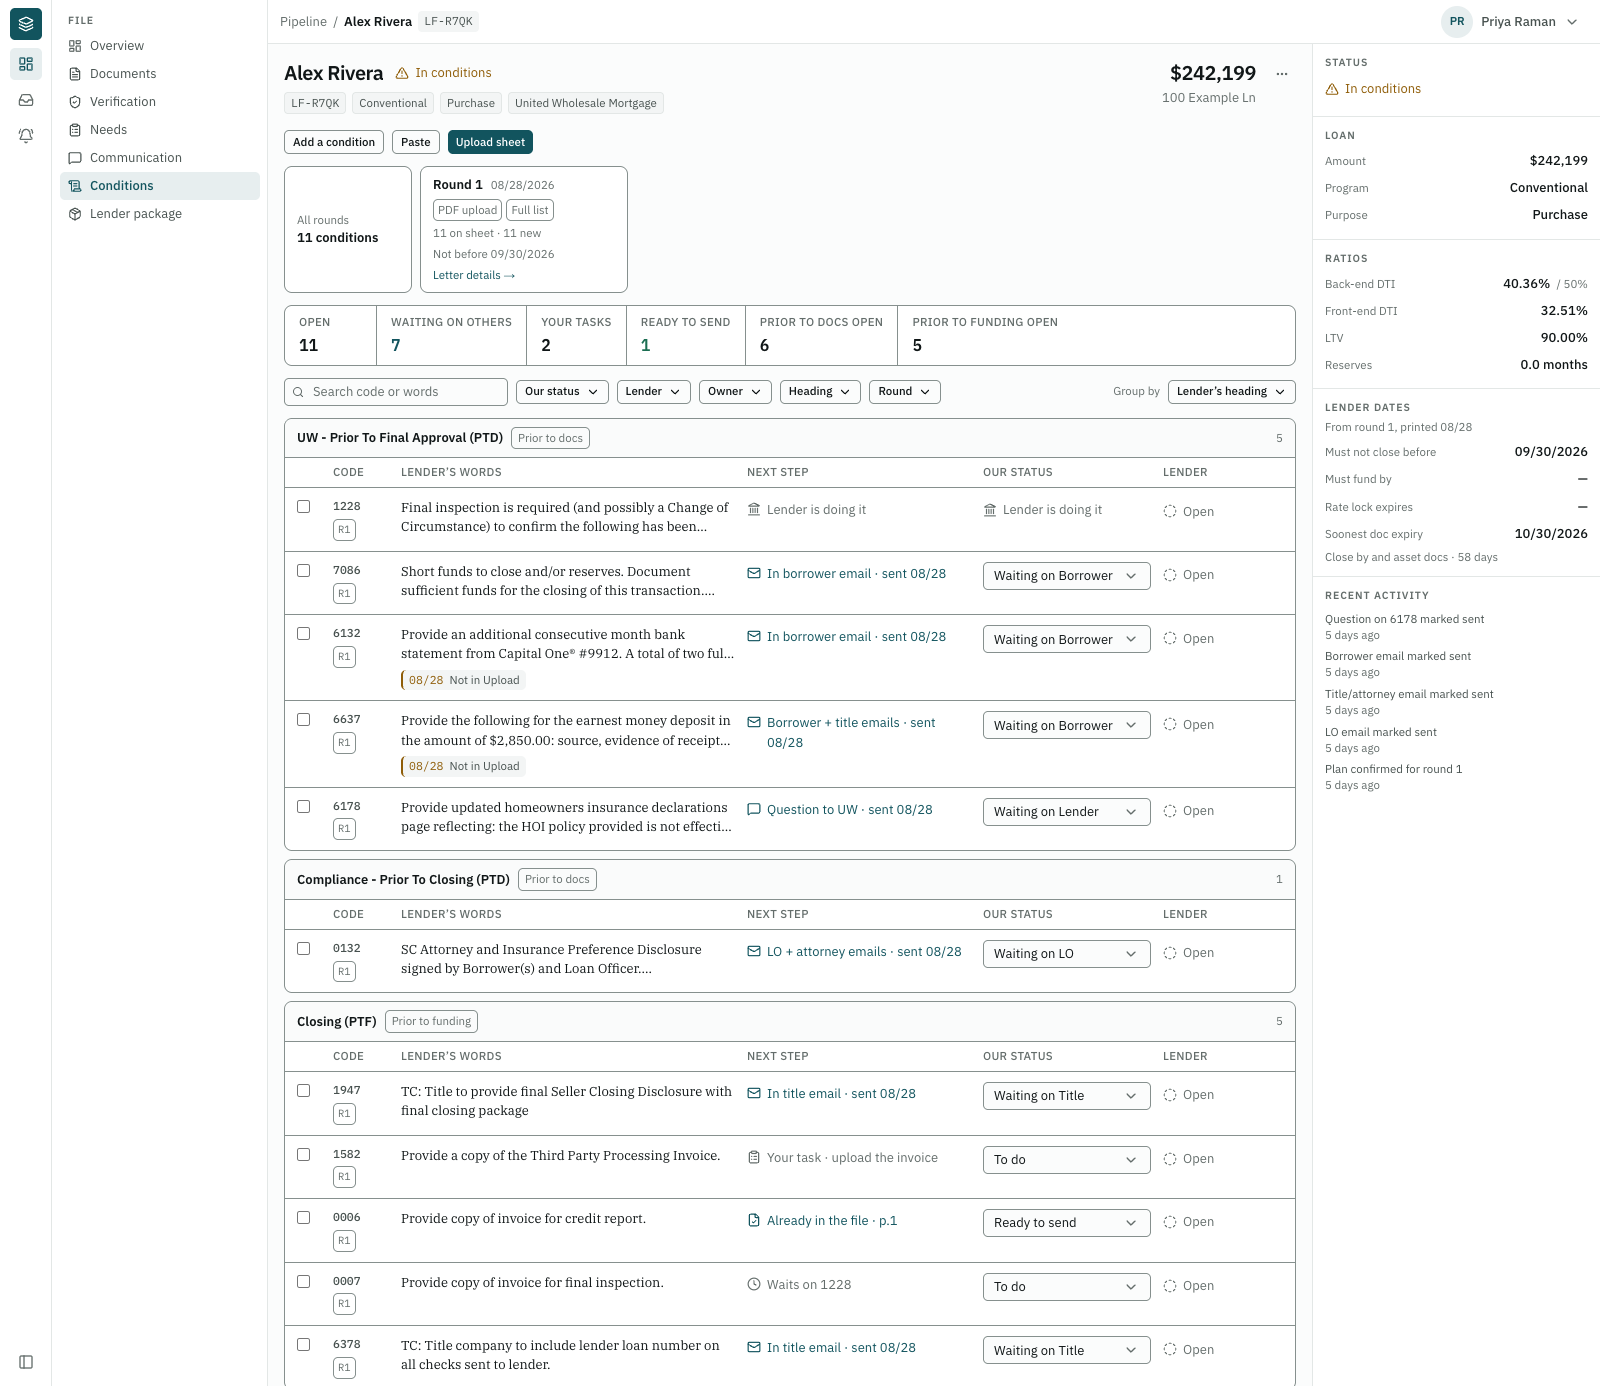
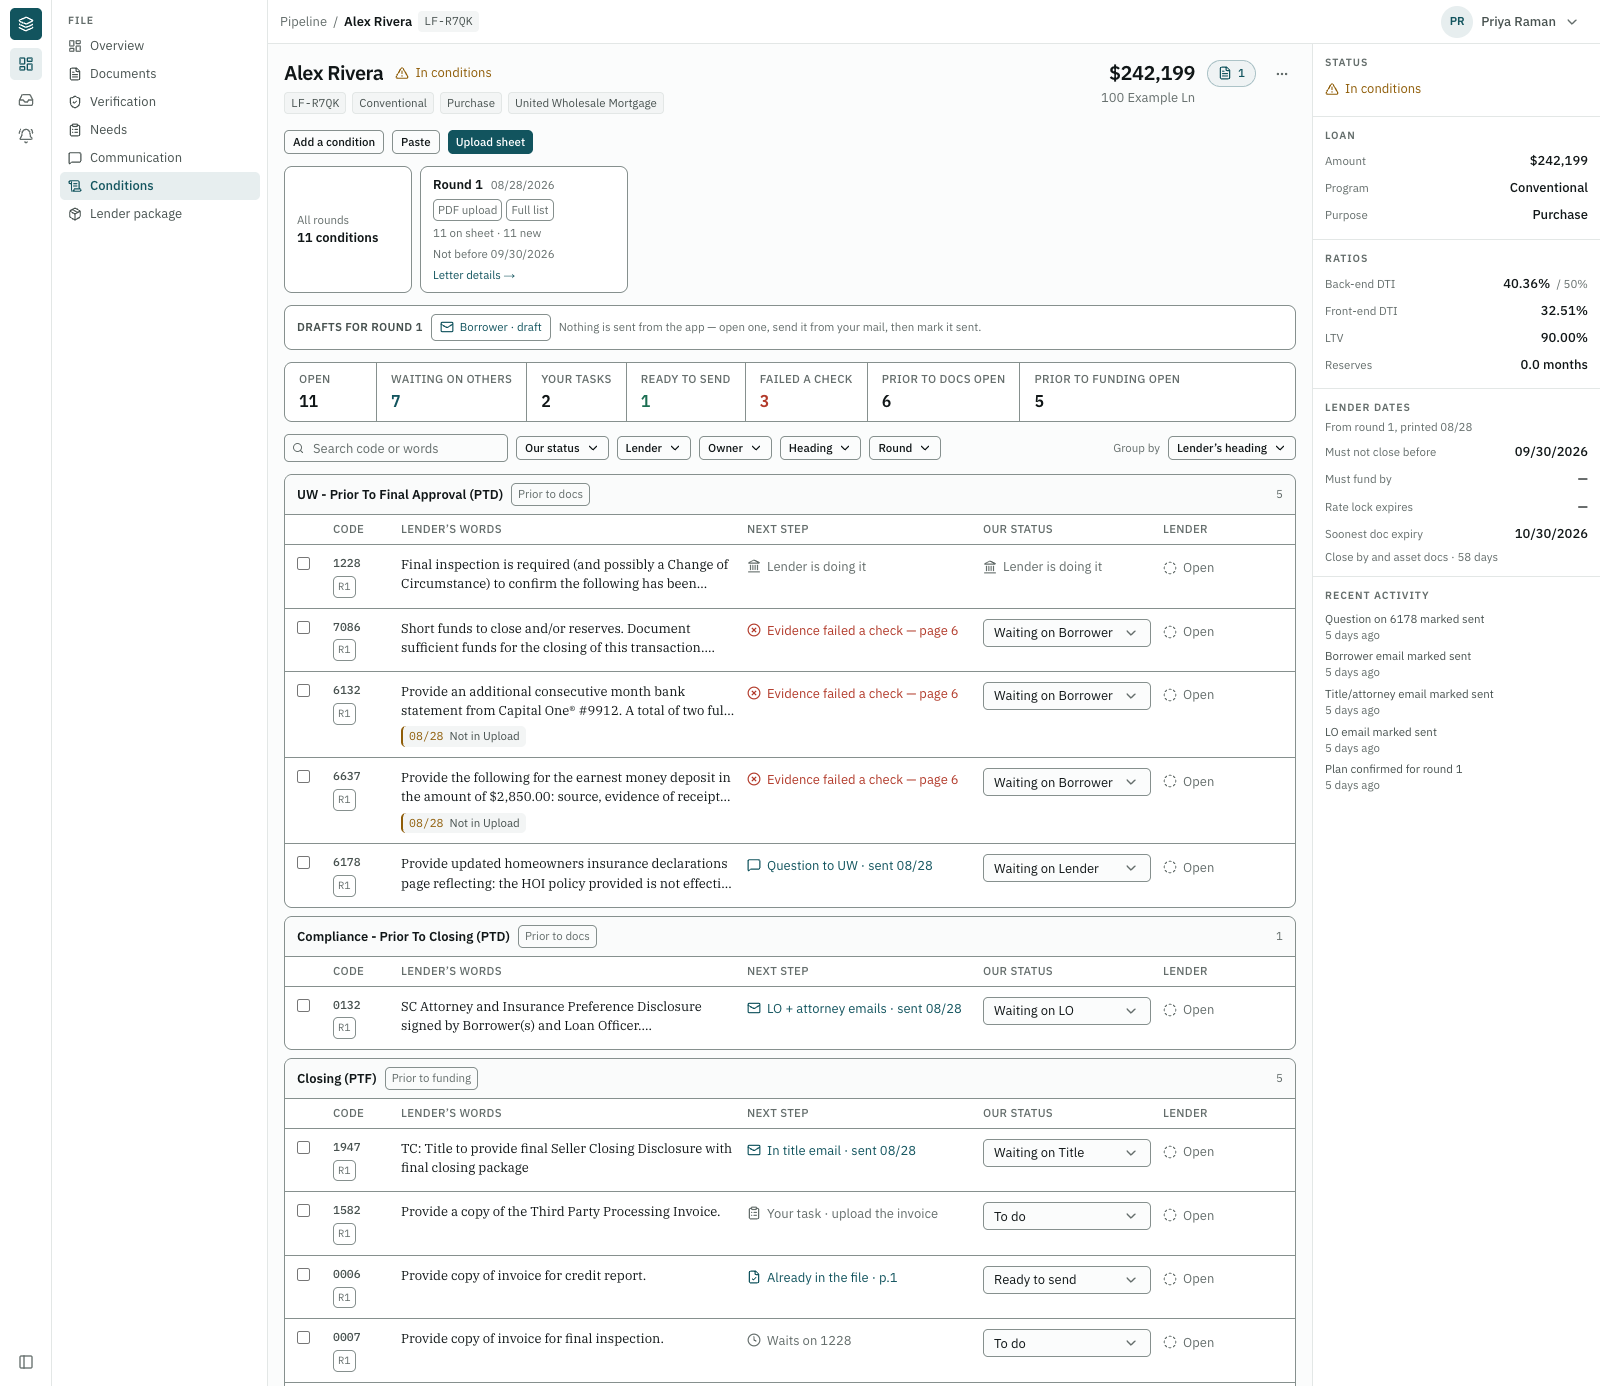
LP-923 review: an open deposit keeps its item open too; LP-934's D1 corrected to 3
- test_evidence_item_open_finding.py: the per-item guard (every check passed, deposit open →
  the item is NOT done) was unpinned; now tested, with a positive control once answered.
- LP-934's D1 row said 2; the 5-page statement answers three items (6132, 7086, 6637's
  clearance), measured. Corrected in place with the reason.
- Why nothing is auto-drafted, written into the ticket; S3-07, S3-08, S3-12 re-shot.

Written by the review session (mortgageboss-ai-cf); committed by the builder at the product owner's instruction.

diff --git a/backend/tests/conditions/test_evidence_item_open_finding.py b/backend/tests/conditions/test_evidence_item_open_finding.py
@@ -1,0 +1,87 @@
+"""An item is not done while its own finding is open (LP-923 review).
+
+WHY THIS EXISTS. `_open_finding` guards two different decisions in `condition_evidence`: whether the
+CONDITION may move to Ready to send, and whether the ITEM may be marked done. The first is pinned by
+`test_accepting_a_statement_does_not_answer_its_deposit` — removing it fails that test. The second was
+pinned by nothing: deleting it from the per-item rule left the whole `tests/conditions/` suite green,
+so an edit could have marked items done over an open finding and no test would have said so.
+
+WHAT THAT WOULD LOOK LIKE. S3-08's statement passes every check — right account, right period, right
+borrower, inside the lender's dates, all 12 pages, enough for closing — and still carries the
+$4,000.00 deposit that needs sourcing. Without this guard the item reads "done" on the sheet and drops
+out of her open work, while the condition itself stays held by the other guard. The screen would say
+the asked-for thing had arrived and been dealt with, which is the one thing it must not say while the
+borrower still owes an explanation.
+"""
+
+from __future__ import annotations
+
+import pytest
+from app.models.condition_evidence import ConditionEvidence
+from app.models.condition_item import ConditionItem
+from app.models.condition_vocabulary import ConditionItemStatus
+from app.services import condition_reading
+from app.services.condition_evidence import answer_finding, check_document
+from sqlalchemy.ext.asyncio import AsyncSession
+from tests.conditions.reading_fixture import fake_complete
+from tests.conditions.statement_fixture import add_statement, july_and_august
+from tests.conditions.test_condition_evidence import TODAY, _asked, _evidence, _results
+
+pytestmark = pytest.mark.asyncio
+
+
+@pytest.fixture(autouse=True)
+def _mocked_model(monkeypatch: pytest.MonkeyPatch) -> None:
+    """The same stub the sibling module uses. Without it `_asked` reaches the real API: the reading
+    runs inside it, and the mock lives in that module rather than in `conftest`."""
+    monkeypatch.setattr(condition_reading, "complete", fake_complete())
+
+
+async def _statements_evidence(
+    db: AsyncSession, condition: object
+) -> tuple[ConditionEvidence, ConditionItem]:
+    """The evidence row for 7086's `statements` item, with its item."""
+    rows = await _evidence(db, condition)  # type: ignore[arg-type]
+    for row in rows:
+        item = await db.get(ConditionItem, row.item_id)
+        if item is not None and item.key == "statements":
+            return row, item
+    raise AssertionError("no evidence for the statements item")
+
+
+async def test_every_check_passed_and_the_item_is_still_not_done(db_session: AsyncSession) -> None:
+    """S3-08 exactly: nothing failed, and the deposit is still unanswered."""
+    _loan_file, conditions, _actor = await _asked(db_session)
+    both = await add_statement(db_session, _loan_file, july_and_august())
+    await check_document(db_session, document_id=both.id, today=TODAY)
+
+    row, item = await _statements_evidence(db_session, conditions["7086"])
+
+    # The premise, asserted rather than assumed: this is the all-passed case, not a failed check.
+    assert {result for result, _reason in _results(row).values()} - {"failed"} == {"passed"}
+    assert [result for result, _ in _results(row).values()].count("failed") <= 1, _results(row)
+    assert row.findings, "the $4,000.00 deposit should be an open finding"
+    assert row.findings[0].get("status") != "explained"
+
+    assert item.status is not ConditionItemStatus.DONE
+
+
+async def test_answering_the_finding_lets_the_item_be_done(db_session: AsyncSession) -> None:
+    """The positive control. Without it, a guard that never marked anything done would pass above."""
+    _loan_file, conditions, actor = await _asked(db_session)
+    both = await add_statement(db_session, _loan_file, july_and_august())
+    await check_document(db_session, document_id=both.id, today=TODAY)
+    row, _item = await _statements_evidence(db_session, conditions["7086"])
+
+    await answer_finding(
+        db_session,
+        condition=conditions["7086"],
+        evidence_id=row.id,
+        index=0,
+        answer="explained",
+        reason="payroll from her employer, shown on the same statement",
+        actor_user_id=actor,
+    )
+
+    _row, item = await _statements_evidence(db_session, conditions["7086"])
+    assert item.status is ConditionItemStatus.DONE

diff --git a/docs/tickets/LP-923.md b/docs/tickets/LP-923.md
@@ -187,6 +187,91 @@ draft holding the deposit-explanation request, and the rail's relative times are
 | D1 (amended) | S3-12 | "Failed a check 1" | LP-934 said 2. It is **3**: the 5-page statement answers 6132, 7086 and 6637's clearance, and §4a change 2 checks it once for each |
 | D9 | S3-08 | "Right account and period … all pages" as one check row | The library names each check separately and each carries its own reason; S3-07 draws them separately too. Grouping three passes into one row is the screen's shorthand, not a different check |
 
+## Review (of `d2a6f43a`)
+
+**Two findings, both fixed. Your reading of M1 is right, and it corrects something I passed.**
+
+### The findings
+
+**F1 — D1 said 2 in two places and 3 in one.** You amended it to 3 in this ticket; `LP-934.md`'s own
+row still read "→ 2", and the progress file's register sends the reader to LP-934 for D1. So the owner
+following the register would have found the stale number. **Verified on the seeded state before
+changing anything:** the 5-page August statement is linked to three items — 6132's statement, 7086's
+assets and **6637's clearance** — and all three carry the failed `all_pages` check. `Failed a check`
+reads **3** on my own S3-12 shot. LP-934's row now carries the correction and says why it was wrong:
+neither the build nor its review enumerated the items the document answers. That review was mine, so
+this is my error as much as anyone's — M1's rule is "checked once for each item it answers", and the
+right response was to list the items, which neither of us did.
+
+**F2 — `_open_finding` guards two decisions, and only one was pinned.** You wrote that the guard
+"looked redundant under mutation, but it is not", and that is right for the Ready move: removing it
+fails `test_accepting_a_statement_does_not_answer_its_deposit`. The SAME guard on the per-item done
+rule was pinned by nothing — I removed it and the whole `tests/conditions/` suite stayed green at
+398 passed. Without it, S3-08's statement (every check passed, the $4,000.00 deposit still open) marks
+its item **done**: the sheet says the asked-for thing arrived and was dealt with while the borrower
+still owes an explanation, and only the other guard keeps the condition itself back. **Fixed:**
+`tests/conditions/test_evidence_item_open_finding.py`, with a positive control that answering the
+finding does let the item be done. Mutation-checked: removing the guard fails the first test and not
+the control.
+
+### The judgment you asked for, on M1
+
+**Three is right.** M1's rule is that one document is "checked once for each item it answers", and the
+August statement answers three: 6132's bank statement, 7086's verified assets, and 6637's clearance
+(the July statement is 6637's source, which is why it is three and not four). Measured, not reasoned:
+`condition_evidence` holds three rows for that document, each with `all_pages` failed, and S3-12 shows
+`Failed a check 3` with all three rows reading "Evidence failed a check — page 6".
+
+### "Nothing is auto-drafted" — also right, and worth the argument
+
+The plan says "a re-ask is drafted" and "an explanation request drafted for the borrower", and whether
+a draft exists is behaviour, where the plan wins — so this deserved more than a decision line. Three
+things settle it your way. S3-07's primary is *her* button ("Add 'please send page 6' to the borrower
+email"), and S3-08's is "Ask the borrower to explain it". §4a change 10 enumerates what happens
+automatically and drafting is not among them. And the whole stage is drafts-not-sends, which is what
+"is drafted" is contrasting with. No deviation needed.
+
+### The rest, checked
+
+- **No model runs a check.** Nothing in `condition_evidence.py` imports or calls the AI; the checks are
+  code, as its own docstring claims and as S3-08 prints to the processor ("All figures above are
+  computed by code").
+- **The large deposit as a finding, not a failed check.** Both screens demand exactly this split: S3-08
+  lists "No unexplained large deposit" among the Checks with a red glyph, while S3-12's `Failed a
+  check` count excludes it. My S3-08 shot shows `Failed a check 0` with the red row present, which is
+  the reconciliation working.
+- **The out-of-scope change is the right shape.** `upload_links._enqueue_processing` mirrors
+  `documents.py`'s existing `_enqueue_reprocess` exactly — fire-and-forget after the commit, swallowing
+  a broker hiccup because the document is stored and can be reprocessed. That is the established
+  pattern for this case, not a breach of the "never a bare `except Exception`" rule, which applies
+  where a failure would strand work. Without it LP-923 cannot work end to end, so it belongs here.
+
+### Screens
+
+**S3-08 — matches every line:** the 12-page document card, all seven checks with "Enough for closing"
+(verified $41,914.42 against $38,210.40) and the failed deposit row, the attention box with the
+B3-4.2-02 chip and all four figures ($4,000.00 · $2,870.66 · $37,914.42 · $38,210.40), the plain-words
+reason, both buttons, and "7086 stays Waiting on Borrower … All figures above are computed by code."
+
+**S3-12 — the amended D1 confirmed on screen:** `Failed a check 3`, with 7086, 6132 and 6637 each
+reading "Evidence failed a check — page 6"; the summary otherwise 11 · 7 · 2 · 1 · 6 · 5; LP-922's
+sends now real ("· sent 08/28"), and Recent activity showing four marked sends, which is D4.
+
+### Tests
+
+| | Ticket | Measured here |
+|---|---|---|
+| Backend, full suite | 8657 passed, 1 failed | **8659 passed, 1 failed** — 8657 plus this review's 2 tests; the failure is the named pre-existing one |
+| ruff, format, mypy | clean | clean |
+| Frontend | vitest 2112/2113, tsc, biome, build clean | **2113 / 2113** here — the stranded-round test passed in this run, as it does in some whole-suite runs; tsc and biome clean |
+
+### One hazard for the next test file
+
+`_asked` runs the reading, and the model stub is an autouse fixture **local to
+`test_condition_evidence.py`**. My new file imported `_asked` and reached the real API on its first
+run (a 401 in the log). Nothing is broken today, but `_asked` is now imported across modules, and the
+stub is worth lifting somewhere shared before a file forgets it with a key present.
+
 ## Verification
 
 - **Full backend suite on the finished tree:** 8657 passed, 1 failed (the named sonnet test), 8 skipped,

diff --git a/docs/phases/phase4.5-progress.md b/docs/phases/phase4.5-progress.md
@@ -277,7 +277,7 @@ the "Today" table's clock. Actual and review shots are committed under
 | LP-920 The action plan | REVIEWED | `106de9af` | the commit titled `LP-920 review:` | S3-01, S3-02, S3-03 re-shot by the reviewer; S3-02 matches every line, S3-01 differs on one string (D6) | review found 1, fixed: a Must-match string recorded as a match, now D6 |
 | LP-921 Next-step options | REVIEWED | `0111c5f0` | the commit titled `LP-921 review:` | S3-12 shot and walked by the reviewer: every line this ticket builds matches (sends LP-922, checks LP-923); S3-01 chips match | review found 2, fixed: the suite count was pre-fix (8592), the deviation list named only D1-D4 |
 | LP-922 Asking people (drafts only) | REVIEWED | `29c74a7d` + follow-up `35a558f8` | the commits titled `LP-922 review:` and `LP-922 follow-up review:` | S3-04, S3-05, S3-06 shot and walked by the reviewer; D7 and D8 recorded | 2 reviews: a pre-existing flaky test recorded; the polish fact-check could not see a swapped pair, now caught |
-| LP-923 Evidence arrives and is checked | AWAITING_REVIEW | the commit titled `LP-923:` | | S3-07 matches every line; S3-08 all but D9 (grouped row); S3-12 now built: D1 amended (3), D2 | the deposit is a finding, never a failed check; upload-link documents now processed |
+| LP-923 Evidence arrives and is checked | REVIEWED | `d2a6f43a` | the commit titled `LP-923 review:` | S3-07, S3-08, S3-12 shot and walked by the reviewer; S3-08 matches every line, S3-12 confirms Failed a check 3 | review found 2, fixed: LP-934's D1 still said 2; the per-item open-finding guard had no test |
 | LP-924 The figures check | PENDING | | | S3-09 | |
 | LP-925 Package, submit, lender settings | PENDING | | | S3-10, S3-11 | then the Stage 3B acceptance test |
 | LP-935 Stage 3 close | PENDING | | | every screen | |

diff --git a/docs/tickets/LP-934.md b/docs/tickets/LP-934.md
@@ -137,7 +137,7 @@ No mismatch breaks a §4 principle in either direction, so none is a STOP AND AS
 
 | # | Screen | Must-match line made untrue | Why (plan) |
 |---|---|---|---|
-| D1 | S3-12 | "Failed a check 1 (red)" | M1: the 5-page August statement also answers 7086, so 7086 fails "All pages" too → 2 |
+| D1 | S3-12 | "Failed a check 1 (red)" | M1: the 5-page August statement also answers 7086, so 7086 fails "All pages" too. **Corrected to 3 by LP-923** (see [LP-923](LP-923.md) "D1 (amended)"): the same statement also answers 6637's clearance item, and M1's own rule checks a document once for EACH item it answers, so 6132, 7086 and 6637 all fail. This row said 2 because neither the build nor its review enumerated the items the document answers — the number is now measured on the seeded state. |
 | D2 | S3-12 | 7086's next step "Deposit explanation asked · 09/02" as its only state | M1: 7086 also carries the failed page check |
 | D3 | S3-09 | Recent activity "Evidence accepted for 7086 and 6178" | M2: 6178 has no evidence items (§6); only 7086's evidence is accepted |
 | D4 | S3-12 | Recent activity "3 emails marked sent" | M7: four messages were marked sent, each an event (§4a 10, 11) |
